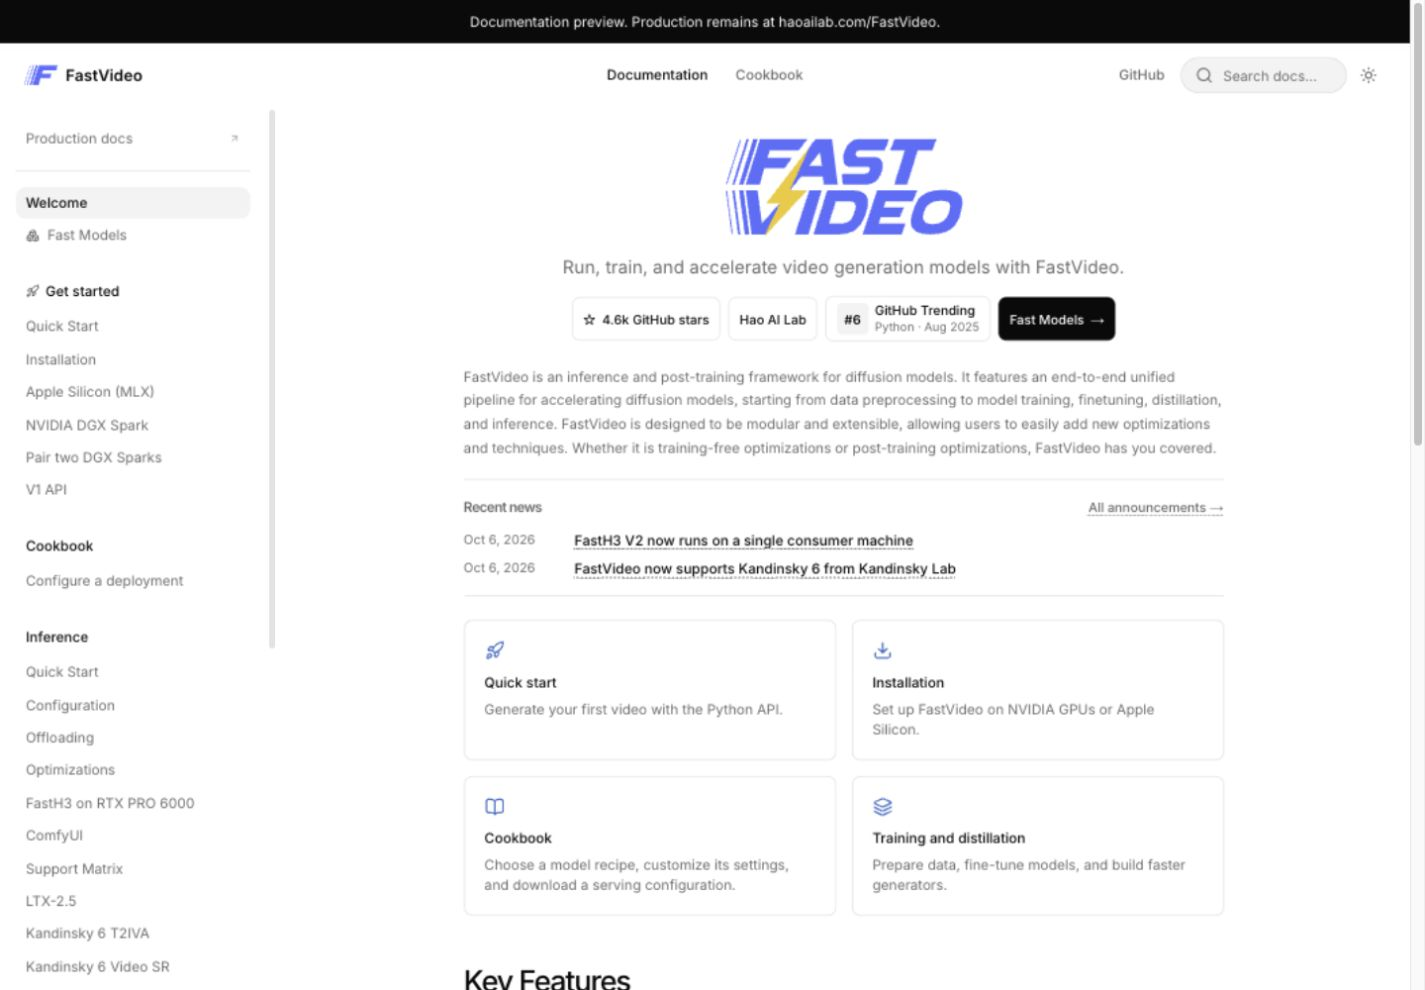
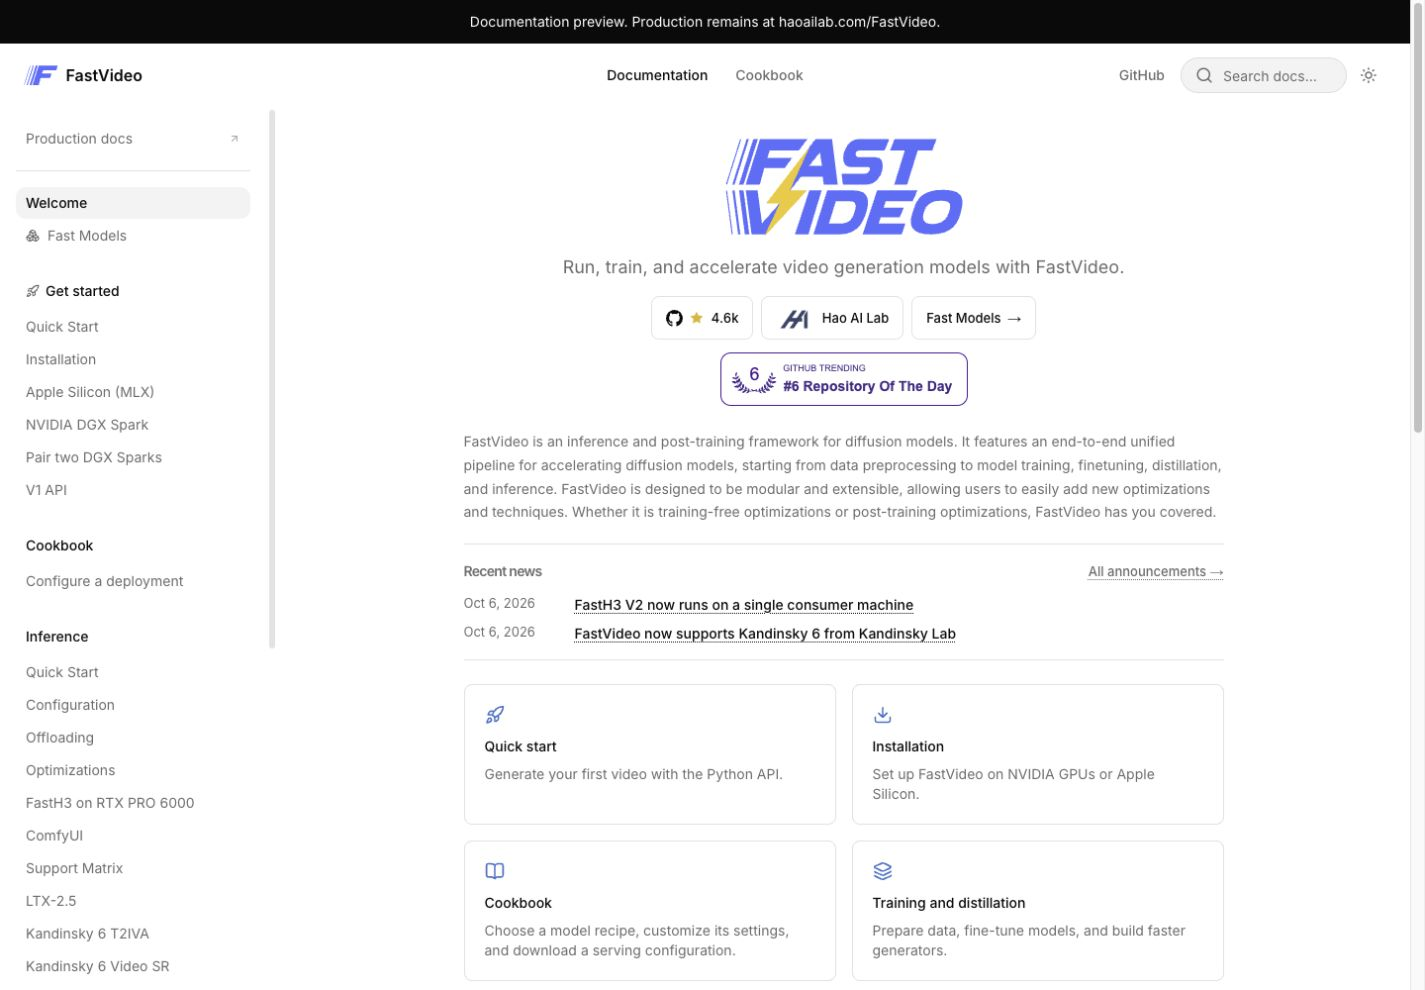
[docs] Refine homepage badges and refresh GitHub stars

diff --git a/docs-site/islands/GitHubStars.tsx b/docs-site/islands/GitHubStars.tsx
@@ -1,0 +1,55 @@
+import { useEffect, useState } from "react";
+
+export const client = "load";
+
+const repository = "https://github.com/hao-ai-lab/FastVideo";
+const endpoint = "https://api.github.com/repos/hao-ai-lab/FastVideo";
+const compact = new Intl.NumberFormat("en", { notation: "compact", maximumFractionDigits: 1 });
+const exact = new Intl.NumberFormat("en");
+
+export default function GitHubStars() {
+  const [stars, setStars] = useState<number | null>(null);
+
+  useEffect(() => {
+    const controller = new AbortController();
+    async function refresh() {
+      try {
+        const response = await fetch(endpoint, {
+          headers: { Accept: "application/vnd.github+json" },
+          signal: AbortSignal.any([controller.signal, AbortSignal.timeout(5000)]),
+        });
+        if (!response.ok) return;
+        const data = await response.json();
+        if (Number.isSafeInteger(data.stargazers_count) && data.stargazers_count >= 0 && !controller.signal.aborted) {
+          setStars(data.stargazers_count);
+        }
+      } catch {
+        // Keep the link usable when offline or when the public API is rate limited.
+      }
+    }
+    void refresh();
+    const timer = setInterval(
+      () => {
+        if (document.visibilityState === "visible") void refresh();
+      },
+      5 * 60 * 1000,
+    );
+    return () => {
+      controller.abort();
+      clearInterval(timer);
+    };
+  }, []);
+
+  const label = stars === null ? "Star FastVideo on GitHub" : `FastVideo on GitHub, ${exact.format(stars)} stars`;
+  return (
+    <a className="home-github-stars" href={repository} aria-label={label} title={label}>
+      <svg width="17" height="17" viewBox="0 0 16 16" fill="currentColor" aria-hidden="true">
+        <path d="M8 0C3.58 0 0 3.58 0 8c0 3.54 2.29 6.53 5.47 7.59.4.07.55-.17.55-.38v-1.49c-2.23.48-2.7-1.08-2.7-1.08-.36-.92-.89-1.17-.89-1.17-.73-.5.06-.49.06-.49.8.06 1.22.82 1.22.82.71 1.22 1.87.87 2.33.67.07-.52.28-.87.51-1.07-1.78-.2-3.64-.89-3.64-3.96 0-.87.31-1.59.82-2.15-.08-.2-.36-1.02.08-2.12 0 0 .67-.21 2.2.82A7.65 7.65 0 0 1 8 3.72c.68 0 1.36.09 2 .27 1.53-1.03 2.2-.82 2.2-.82.44 1.1.16 1.92.08 2.12.51.56.82 1.28.82 2.15 0 3.08-1.87 3.75-3.65 3.95.29.25.54.74.54 1.49v2.21c0 .21.15.46.55.38A8.01 8.01 0 0 0 16 8c0-4.42-3.58-8-8-8Z" />
+      </svg>
+      <svg className="home-star" width="16" height="16" viewBox="0 0 24 24" fill="currentColor" aria-hidden="true">
+        <path d="m12 2.5 2.94 5.96 6.58.96-4.76 4.64 1.12 6.55L12 17.52l-5.88 3.09 1.12-6.55L2.48 9.42l6.58-.96L12 2.5Z" />
+      </svg>
+      <span>{stars === null ? "Star" : compact.format(stars).toLowerCase()}</span>
+    </a>
+  );
+}

diff --git a/docs-site/tests/documentation.spec.ts b/docs-site/tests/documentation.spec.ts
@@ -1,5 +1,34 @@
 import { expect, test } from "@playwright/test";
 
+test("GitHub stars refresh automatically and survive a failed refresh", async ({ page }) => {
+  await page.clock.install();
+  let requests = 0;
+  await page.route("https://api.github.com/repos/hao-ai-lab/FastVideo", async (route) => {
+    requests++;
+    if (requests === 2) return route.fulfill({ status: 503, body: "Unavailable" });
+    await route.fulfill({ json: { stargazers_count: requests === 1 ? 4612 : 5234 } });
+  });
+  await page.goto("/FastVideo");
+  const stars = page.locator(".home-github-stars");
+  await expect(stars).toHaveText("4.6k");
+  await expect(stars).toHaveAccessibleName("FastVideo on GitHub, 4,612 stars");
+  await page.clock.fastForward(5 * 60 * 1000);
+  await expect.poll(() => requests).toBe(2);
+  await expect(stars).toHaveText("4.6k");
+  await page.clock.fastForward(5 * 60 * 1000);
+  await expect(stars).toHaveText("5.2k");
+});
+
+test("GitHub rate limits leave a usable Star link without a fabricated count", async ({ page }) => {
+  await page.route("https://api.github.com/repos/hao-ai-lab/FastVideo", (route) =>
+    route.fulfill({ status: 403, json: { message: "API rate limit exceeded" } }),
+  );
+  await page.goto("/FastVideo");
+  const stars = page.getByRole("link", { name: "Star FastVideo on GitHub", exact: true });
+  await expect(stars).toHaveText("Star");
+  await expect(stars).toHaveAttribute("href", "https://github.com/hao-ai-lab/FastVideo");
+});
+
 test("documentation navigation opens transferred guides", async ({ page }) => {
   await page.goto("/FastVideo");
   await expect(page.getByRole("heading", { name: "Welcome to FastVideo", exact: true })).toBeVisible();
@@ -20,6 +49,14 @@ test("the welcome page introduces the project and opens the cookbook", async ({ 
     "href",
     "https://haoailab.com/",
   );
+  const lab = page.locator(".home-lab-link img");
+  expect(await lab.evaluate((image: HTMLImageElement) => image.complete && image.naturalWidth > 0)).toBe(true);
+  const trending = page.locator(".home-trendshift a");
+  await expect(trending).toHaveAttribute(
+    "href",
+    "https://trendshift.io/repositories/14509?utm_source=repository-badge&utm_medium=badge&utm_campaign=badge-repository-14509",
+  );
+  await expect(trending.locator("img")).toHaveAttribute("src", "https://trendshift.io/api/badge/repositories/14509");
   await expect(page.locator(".home-news time")).toHaveCount(2);
   await expect(page.locator(".home-news")).toContainText("Kandinsky 6");
   await expect(page.getByRole("heading", { name: "Projects and research", exact: false })).toBeVisible();

diff --git a/docs-site/theme.css b/docs-site/theme.css
@@ -70,51 +70,53 @@
   justify-content: center;
   align-items: center;
   gap: 0.5rem;
-  margin-block-end: 1.5rem;
+  margin-block-end: 0.75rem;
 }
 .home-project-links a {
   display: inline-flex;
   align-items: center;
   gap: 0.4rem;
   min-block-size: 2.75rem;
-  padding: 0.35rem 0.65rem;
+  padding: 0.35rem 0.875rem;
   border: 1px solid var(--blume-border);
   border-radius: var(--radius);
   color: var(--blume-foreground);
   font-size: 0.8125rem;
+  font-weight: 500;
   text-decoration: none;
 }
 .home-project-links a:hover {
   background: var(--blume-muted);
 }
-.home-rank {
-  display: inline-grid;
-  place-items: center;
-  min-inline-size: 2rem;
-  min-block-size: 2rem;
-  border-radius: 0.3rem;
-  background: var(--blume-muted);
-  font-weight: 600;
+.home-project-links svg {
+  flex-shrink: 0;
 }
-.home-ranking-copy {
-  display: grid;
-  gap: 0.15rem;
-  text-align: start;
-  line-height: 1.2;
+.home-github-stars {
+  font-variant-numeric: tabular-nums;
 }
-.home-ranking-copy small {
-  color: var(--blume-muted-foreground);
-  font-size: 0.75rem;
-  font-weight: 400;
+.home-star {
+  color: #eab308;
 }
-.home-project-links .home-models-link {
-  background: var(--blume-foreground);
-  border-color: var(--blume-foreground);
-  color: var(--blume-background);
-  font-weight: 500;
+.home-lab-link img {
+  display: block;
+  object-fit: contain;
+  background: white;
+  border-radius: 3px;
 }
-.home-project-links .home-models-link:hover {
-  background: color-mix(in srgb, var(--blume-foreground) 88%, var(--blume-background));
+.home-trendshift {
+  display: flex;
+  justify-content: center;
+  margin-block-end: 1.5rem;
+}
+.home-trendshift a {
+  display: block;
+  border-radius: 0.5rem;
+}
+.home-trendshift img {
+  display: block;
+  inline-size: 250px;
+  max-inline-size: 100%;
+  block-size: 55px;
 }
 .home-project-links p {
   display: inline-flex;

diff --git a/docs-site/README.md b/docs-site/README.md
@@ -51,8 +51,11 @@ own centered logo and accessible heading. News headlines come from the first two
 dated entries under `NEWS` in the root README, using the first sentence or clause
 and the last linked source. The projects list comes from its "Awesome work"
 section. Update those README sections to refresh the homepage. The GitHub star
-badge is an approximate snapshot, last checked October 16, 2026; the dated #6
-badge links to the recorded GitHub Trending achievement.
+button fetches the public repository count on page load and every five minutes
+while the page is visible. It shows "Star" if the first request fails and keeps
+the last count if a refresh fails. It uses no credentials. The Trendshift badge
+loads directly from Trendshift. The lab mark in `assets/hao-ai-lab.png` is the
+original image supplied for this page.
 
 Fast Models groups public checkpoints by family and links to the existing Hugging
 Face collections. Its links were reviewed against the public Hub API on October
